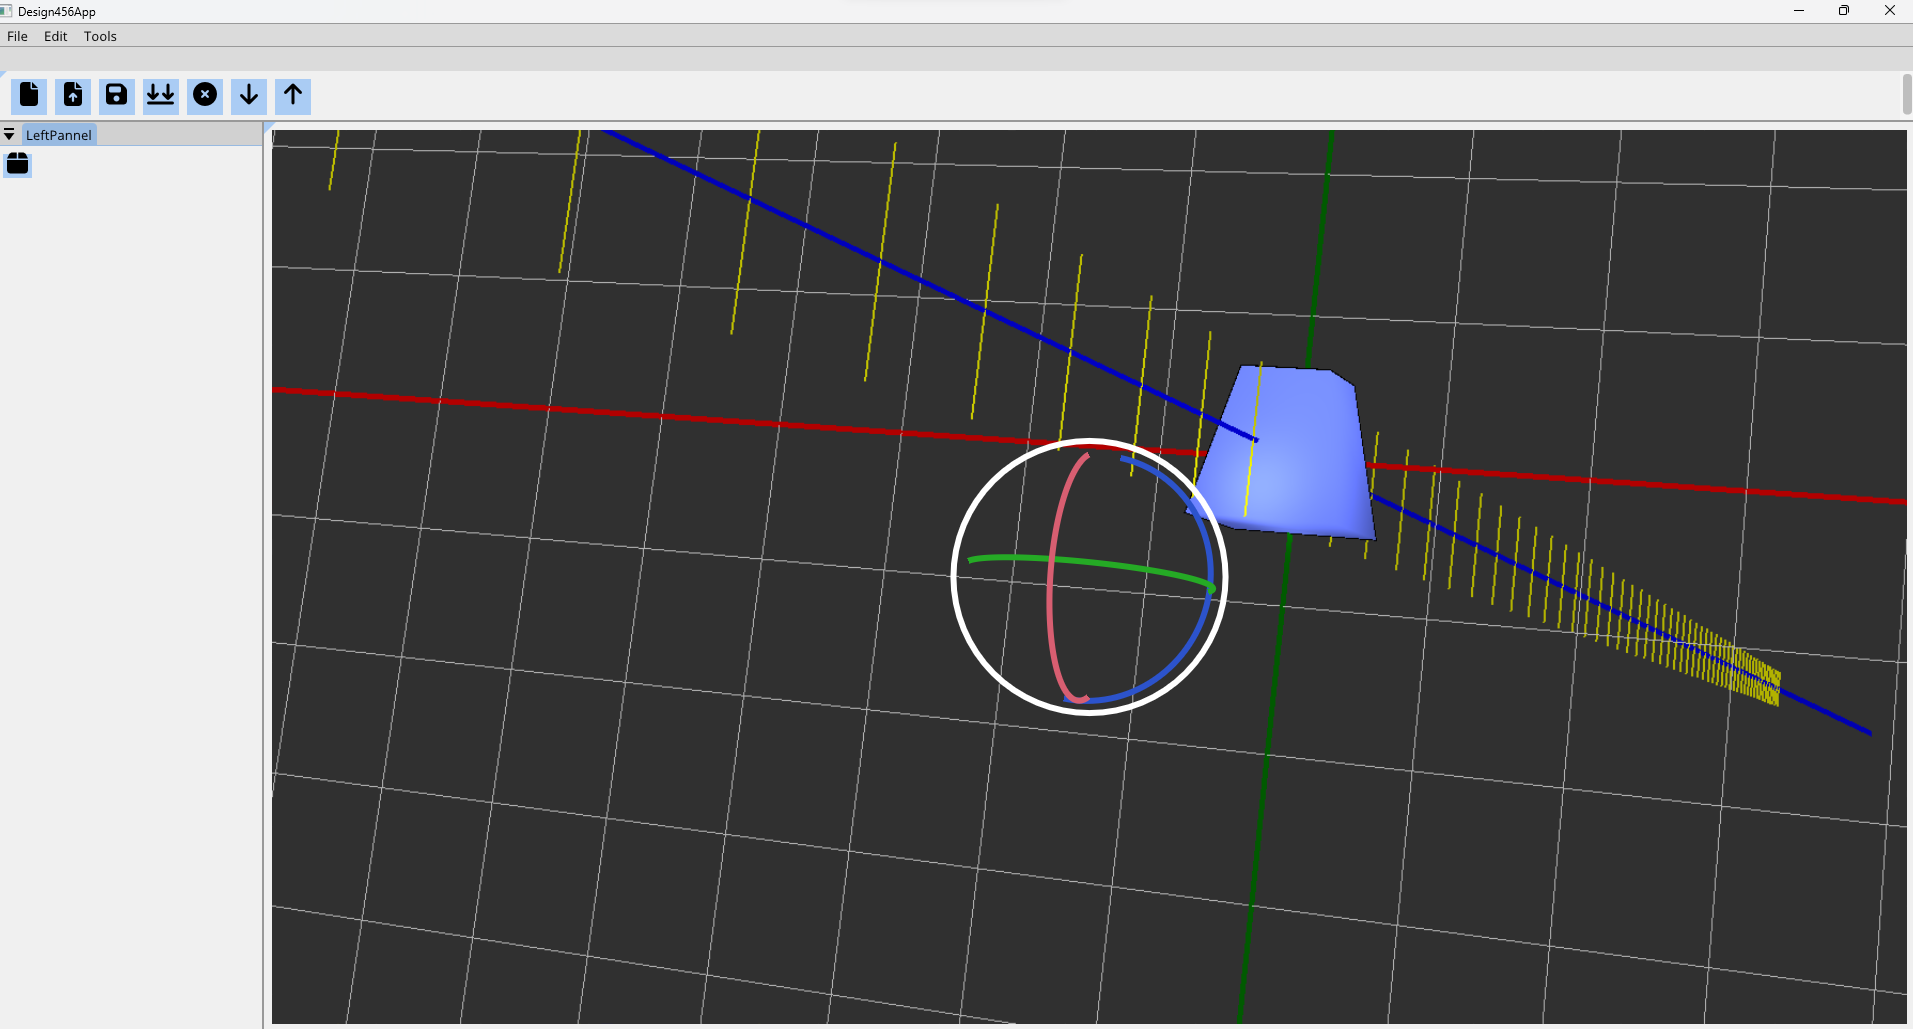
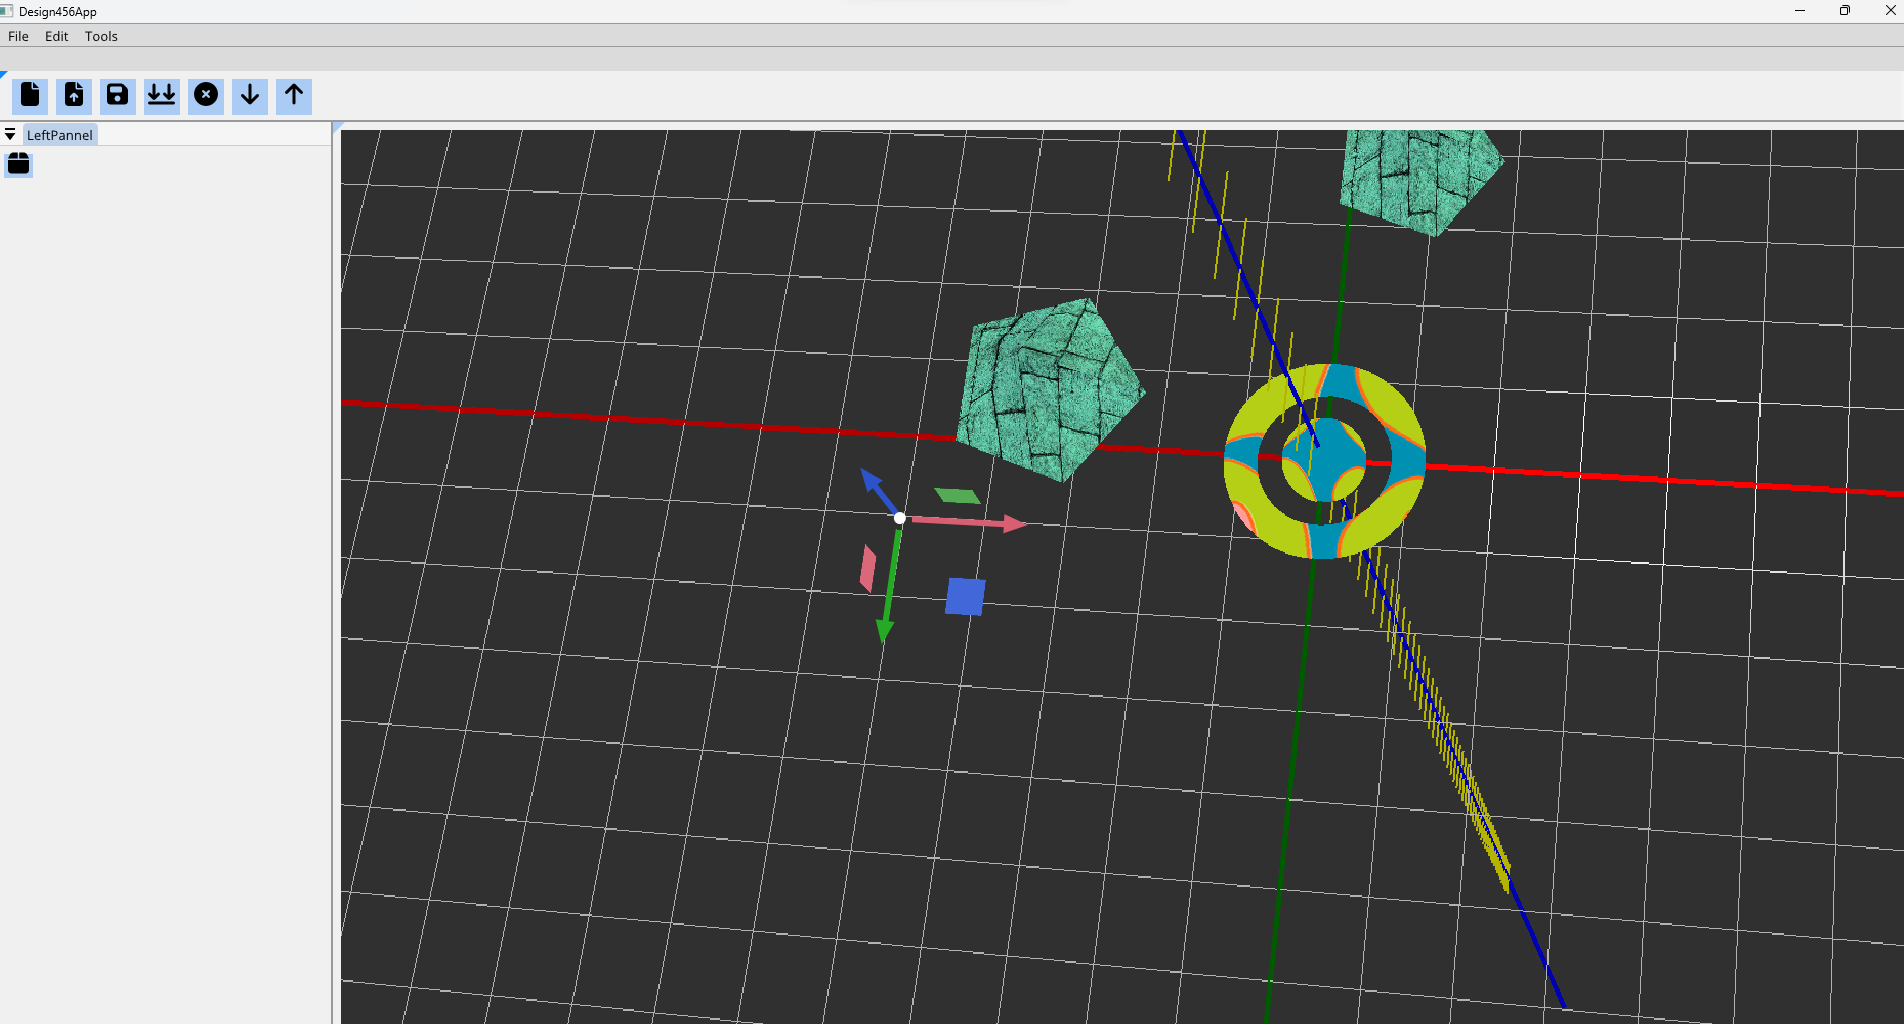
fixture problem found, but not fixed totally

diff --git a/frtk/src/halfEdge/fr_new_mesh.cpp b/frtk/src/halfEdge/fr_new_mesh.cpp
@@ -33,6 +33,7 @@ Shape::Shape(const std::string& path) :
     vbo_{ 0, 0, 0,0 },
     vao_(0), normalized_(false) {
     ReadFile(path);
+    calcualteTextCoor(1024,1024);
     InitializeVBO();
     linktoMainWindow = Fr_GL3Window::getfr_Gl3Window();
 }
@@ -195,7 +196,7 @@ void Shape::calcualteTextCoor(int width, int height) {
     std::cout << ".........................start..........................." << std::endl;
     for (int i = 0; i < normals_.size(); i += 3)
     {
-        // Get the vertex position
+         //Get the vertex position
         GLfloat x = normals_[i];
         GLfloat y = normals_[i + 1];
         GLfloat z = normals_[i + 2];
@@ -206,12 +207,13 @@ void Shape::calcualteTextCoor(int width, int height) {
         
         std::cout << "x=" << u << " y=" << v << std::endl;
 
-        // Store the texture coordinates in the vertices array
-        textcoord_.push_back(u);
-        textcoord_.push_back(v);
-        //textcoord_.push_back(0.0f);
+      //   Store the texture coordinates in the vertices array
+        textcoord_.push_back(u );
+        textcoord_.push_back(v );
+
     }
-    std::cout << ".........................End..........................." << std::endl;
+  
+
 
 }
 void Shape::ReadOFF(const std::string& path) {
@@ -390,6 +392,12 @@ void Shape::InitializeVBO() {
     glCheckFunc(glEnableVertexAttribArray(POSITION_VB));
     glCheckFunc(glVertexAttribPointer(POSITION_VB, 3, GL_FLOAT, GL_FALSE, 0, NULL));                //POSITION_VB = 0
 
+    //?? Not sure for what purpose we send this??
+    glCheckFunc(glEnableVertexAttribArray(1));
+    glCheckFunc(glVertexAttribPointer(1, 3, GL_FLOAT, GL_FALSE, 0, NULL));
+    glCheckFunc(glBindBuffer(GL_ELEMENT_ARRAY_BUFFER, vbo_[3]));
+    glCheckFunc(glBufferData(GL_ELEMENT_ARRAY_BUFFER, indices_.size() * sizeof(unsigned int), indices_.data(), GL_STATIC_DRAW));
+
     ///Texture
     glCheckFunc(glBindBuffer(GL_ARRAY_BUFFER, vbo_[1]));
     glCheckFunc(glBufferData(GL_ARRAY_BUFFER, sizeof(float) * textcoord_.size(), textcoord_.data(), GL_STATIC_DRAW));
@@ -401,11 +409,6 @@ void Shape::InitializeVBO() {
     glCheckFunc(glBindBuffer(GL_UNIFORM_BUFFER, vbo_[2]));          //Using GL_UNIFORM_BUFFER draw the line around the object but now nothing? why?
     glCheckFunc(glBufferData(GL_UNIFORM_BUFFER, sizeof(float) * normals_.size(), normals_.data(), GL_STATIC_DRAW));
 
-    //?? Not sure for what purpose we send this??
-    glCheckFunc(glEnableVertexAttribArray(2));
-    glCheckFunc(glVertexAttribPointer(1, 3, GL_FLOAT, GL_FALSE, 0, NULL));
-    glCheckFunc(glBindBuffer(GL_ELEMENT_ARRAY_BUFFER, vbo_[3]));
-    glCheckFunc(glBufferData(GL_ELEMENT_ARRAY_BUFFER, indices_.size() * sizeof(unsigned int), indices_.data(), GL_STATIC_DRAW));
     glCheckFunc(glBindVertexArray(0));
 }
 

diff --git a/frtk/src/fr_modelnodeShader.cpp b/frtk/src/fr_modelnodeShader.cpp
@@ -134,31 +134,33 @@ void ModelNode::Render(RenderInfo& info, const glm::mat4& modelview) {
 
     auto mvp = info.projection * modelview;
     auto normalmatrix = glm::transpose(glm::inverse(modelview));
+    ShaderProgram* program;
+    //if (color_.a == 1)
+    //    RenderSilhouette(mvp);
 
-    if (color_.a == 1)
-        RenderSilhouette(mvp);
-
-    ShaderProgram* program = shared_->object_program;
-    program->Enable();
-    LoadLights(program, info.lights);
-    program->SetAttribLocation("position", 0);  //Position variable has (layout(location =0) inside objectshader_vs.glsl
-    program->SetAttribLocation("normal", 1);    //normal variable has (layout(location =2) inside objectshader_vs.glsl
-    program->SetUniformMat4("modelview", modelview);
-    program->SetUniformMat4("normalmatrix", normalmatrix);
-    program->SetUniformMat4("mvp", mvp);
-    program->SetUniformVec4("color", color_);       //Object color - not light color
-    mesh_->Draw();//You should make a draw call to get that  done
-    program->Disable();
-    info.id++;
+    //ShaderProgram* program = shared_->object_program;
+    //program->Enable();
+    //LoadLights(program, info.lights);
+    //program->SetAttribLocation("position", 0);  //Position variable has (layout(location =0) inside objectshader_vs.glsl
+    //program->SetAttribLocation("normal", 1);    //normal variable has (layout(location =2) inside objectshader_vs.glsl
+    //program->SetUniformMat4("modelview", modelview);
+    //program->SetUniformMat4("normalmatrix", normalmatrix);
+    //program->SetUniformMat4("mvp", mvp);
+    //program->SetUniformVec4("color", color_);       //Object color - not light color
+    //mesh_->Draw();//You should make a draw call to get that  done
+    //program->Disable();
+    //info.id++;
 
     //Render texture also here.
-    program = shared_->texture_program;
+    program = shared_->texture_program;  
+    m_Texture2D->Bind(0);
     program->Enable();
+  
     program->SetAttribLocation("position", 0);  //Position variable has (layout(location =0) inside objectshader_vs.glsl
     program->SetAttribLocation("texCoord", 1);  //Position variable has (layout(location =1 inside objectshader_vs.glsl
     program->SetUniformVec4("color", color_);       //Object color - not light color
-    program->SetUniformMat4("modelview", modelview);
-    m_Texture2D->Bind(0);
+    program->SetUniformMat4("modelview", mvp);
+    
     mesh_->Draw();      //You should make a draw call to get that  done
     m_Texture2D->Unbind();   
     program->Disable();

diff --git a/frtk/src/fr_primativeShader.cpp b/frtk/src/fr_primativeShader.cpp
@@ -48,7 +48,7 @@ void Fr_PrimaitiveShader::defaultShaders()
 {
     f_objectshader_ = "E:/Projects/Design456App/frtk/src/shaders/objectshader";
     f_silhouette_ = "E:/Projects/Design456App/frtk/src/shaders/silhouette";
-    //f_texture_  = "E:/Projects/Design456App/frtk/src/shaders/texture";
+    ///f_texture_  = "E:/Projects/Design456App/frtk/src/shaders/texture";
 }
 /** Shader file name and path */
 void Fr_PrimaitiveShader::setObjectshader(const char* newValue)

diff --git a/frtk/src/fr_scene.cpp b/frtk/src/fr_scene.cpp
@@ -86,7 +86,6 @@ void Scene::add3DObject(std::string fName)
     rightlight_spot->SetAttenuation(1.0f, 0.002f, 0.0f);
     newObj_t->AddNode(rightlight_spot);
     newObj_t->SetActive(true);
-    newObj->calculateTextureCoord();
     newObj_t->AddNode(newObj);
     AddNode(newObj_t);
 }

diff --git a/frtk/src/fr_texture2d.cpp b/frtk/src/fr_texture2d.cpp
@@ -52,7 +52,7 @@ Fr_Texture2D::~Fr_Texture2D()
 
 void Fr_Texture2D::Bind(unsigned int slot)
 {
-    glCheckFunc(glActiveTexture(GL_TEXTURE1 + slot));
+    //glCheckFunc(glActiveTexture(GL_TEXTURE0 + slot));
     glCheckFunc(glBindTextureUnit(slot, m_RendererID));
 }
 

diff --git a/frtk/src/fr_grid.cpp b/frtk/src/fr_grid.cpp
@@ -63,7 +63,7 @@ std::shared_ptr<Transform>bunny() {
     bunny_t->AddNode(bunny);
     bunny->SetActive(true);
  
-    bunny->calculateTextureCoord();
+    //bunny->calculateTextureCoord();
     return bunny_t;
 }
 /**
